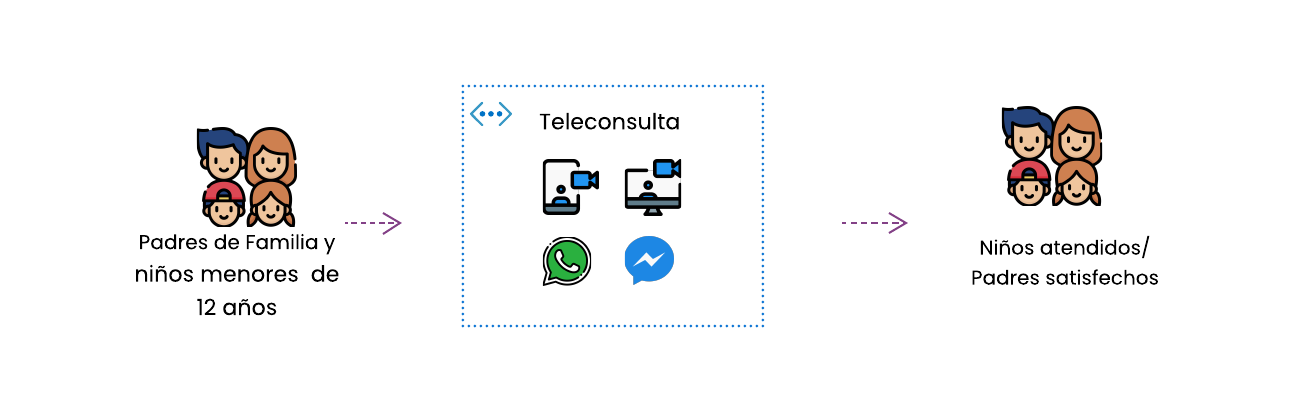
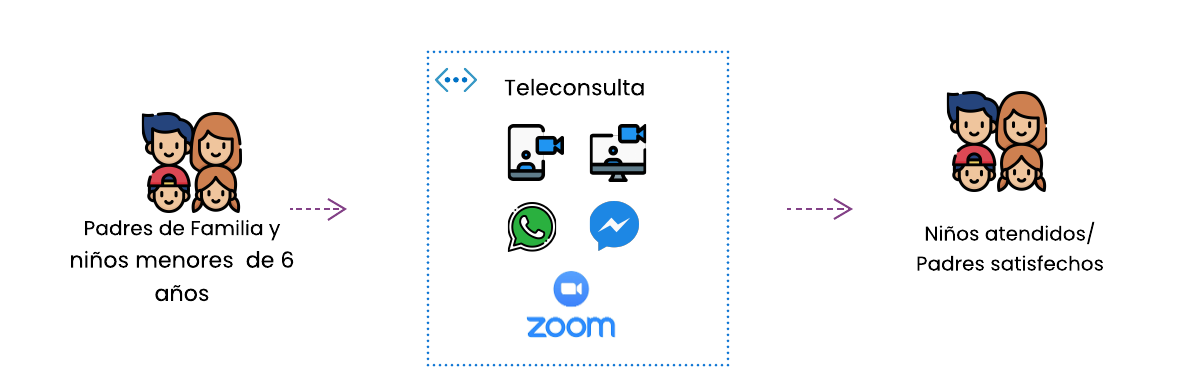
Fix year

diff --git a/src/app/app.component.ts b/src/app/app.component.ts
@@ -8,7 +8,7 @@ import * as AOS from 'aos';
 })
 
 export class AppComponent implements OnInit{
-  title = 'kirusafe';
+  title = 'kirusafe'
   listMenu = [
     {
       title: 'Inicio',
@@ -22,7 +22,7 @@ export class AppComponent implements OnInit{
       title: '¿Cómo lo hacemos?',
       id: 'section-2'
     }
-  ];
+  ]
   urlVideo = 'https://www.youtube.com/watch?v=Q4u0Q69gmLM'
   logoKirusafe = 'assets/img/logo.png'
   headerContent = {
@@ -34,7 +34,7 @@ export class AppComponent implements OnInit{
   }
   sectionOne = {
     title: '¿Quiénes somos?',
-    description: 'Somos una comunidad que integra docentes Especialistas y estudiantes de diversas profesiones, con la finalidad de brindar educación en el marco de la promoción y prevención de la salud, con mayor énfasis en la salud bucal  de  niños menores a 12 años de zonas rurales, para el  cual empleamos metodologías ágiles y medios de comunicación digital de acceso libre y así poder desarrollar sesiones educativas personalizadas por cada grado y sección, teniendo siempre como aliado estratégico.',
+    description: 'Somos una comunidad que integra docentes Especialistas y estudiantes de diversas profesiones, con la finalidad de brindar educación en el marco de la promoción y prevención de la salud, con mayor énfasis en la salud bucal  de  niños menores a 6 años de zonas rurales, para el  cual empleamos metodologías ágiles y medios de comunicación digital de acceso libre y así poder desarrollar sesiones educativas personalizadas por cada grado y sección, teniendo siempre como aliado estratégico.',
     img: 'assets/img/img_section_1.png'
   }
   sectionTwo = {
